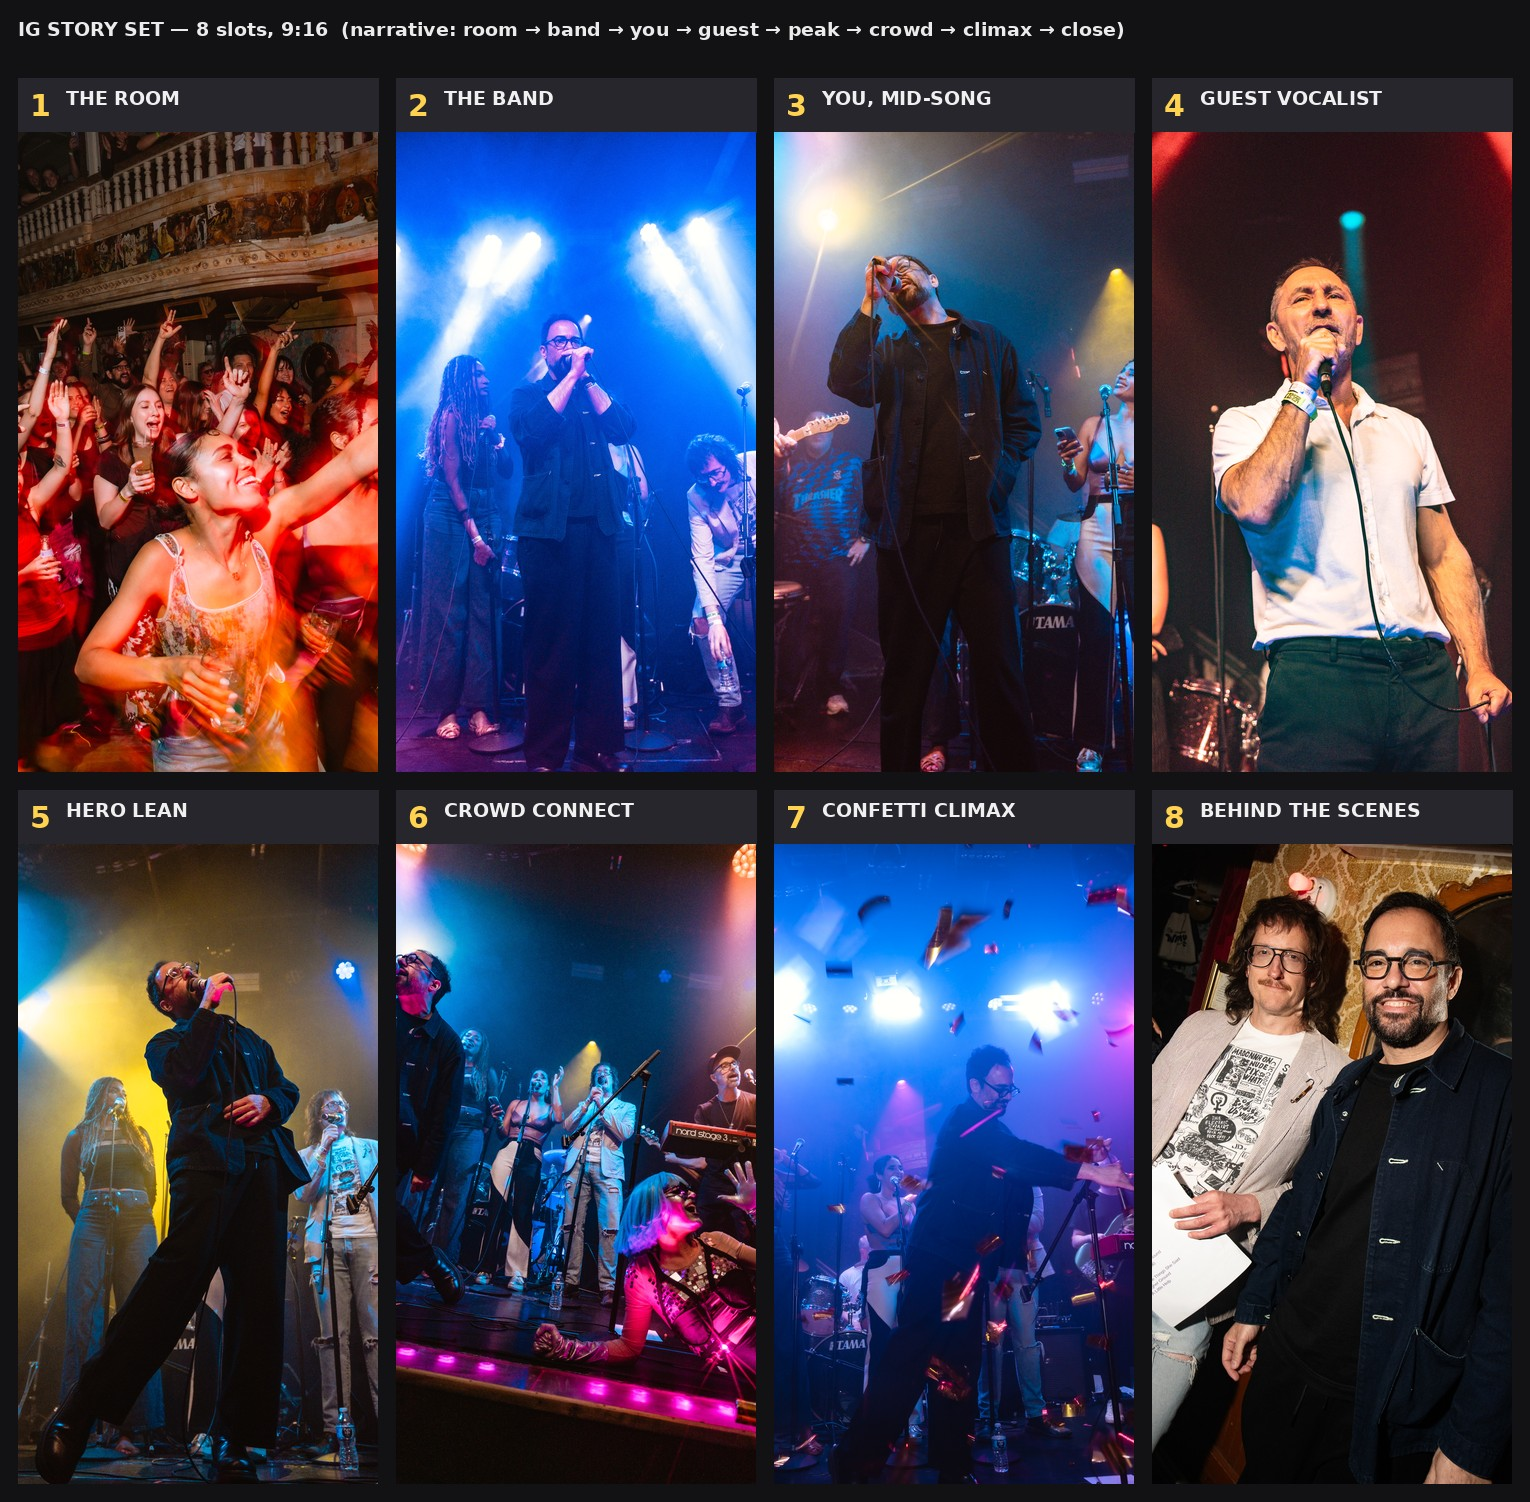
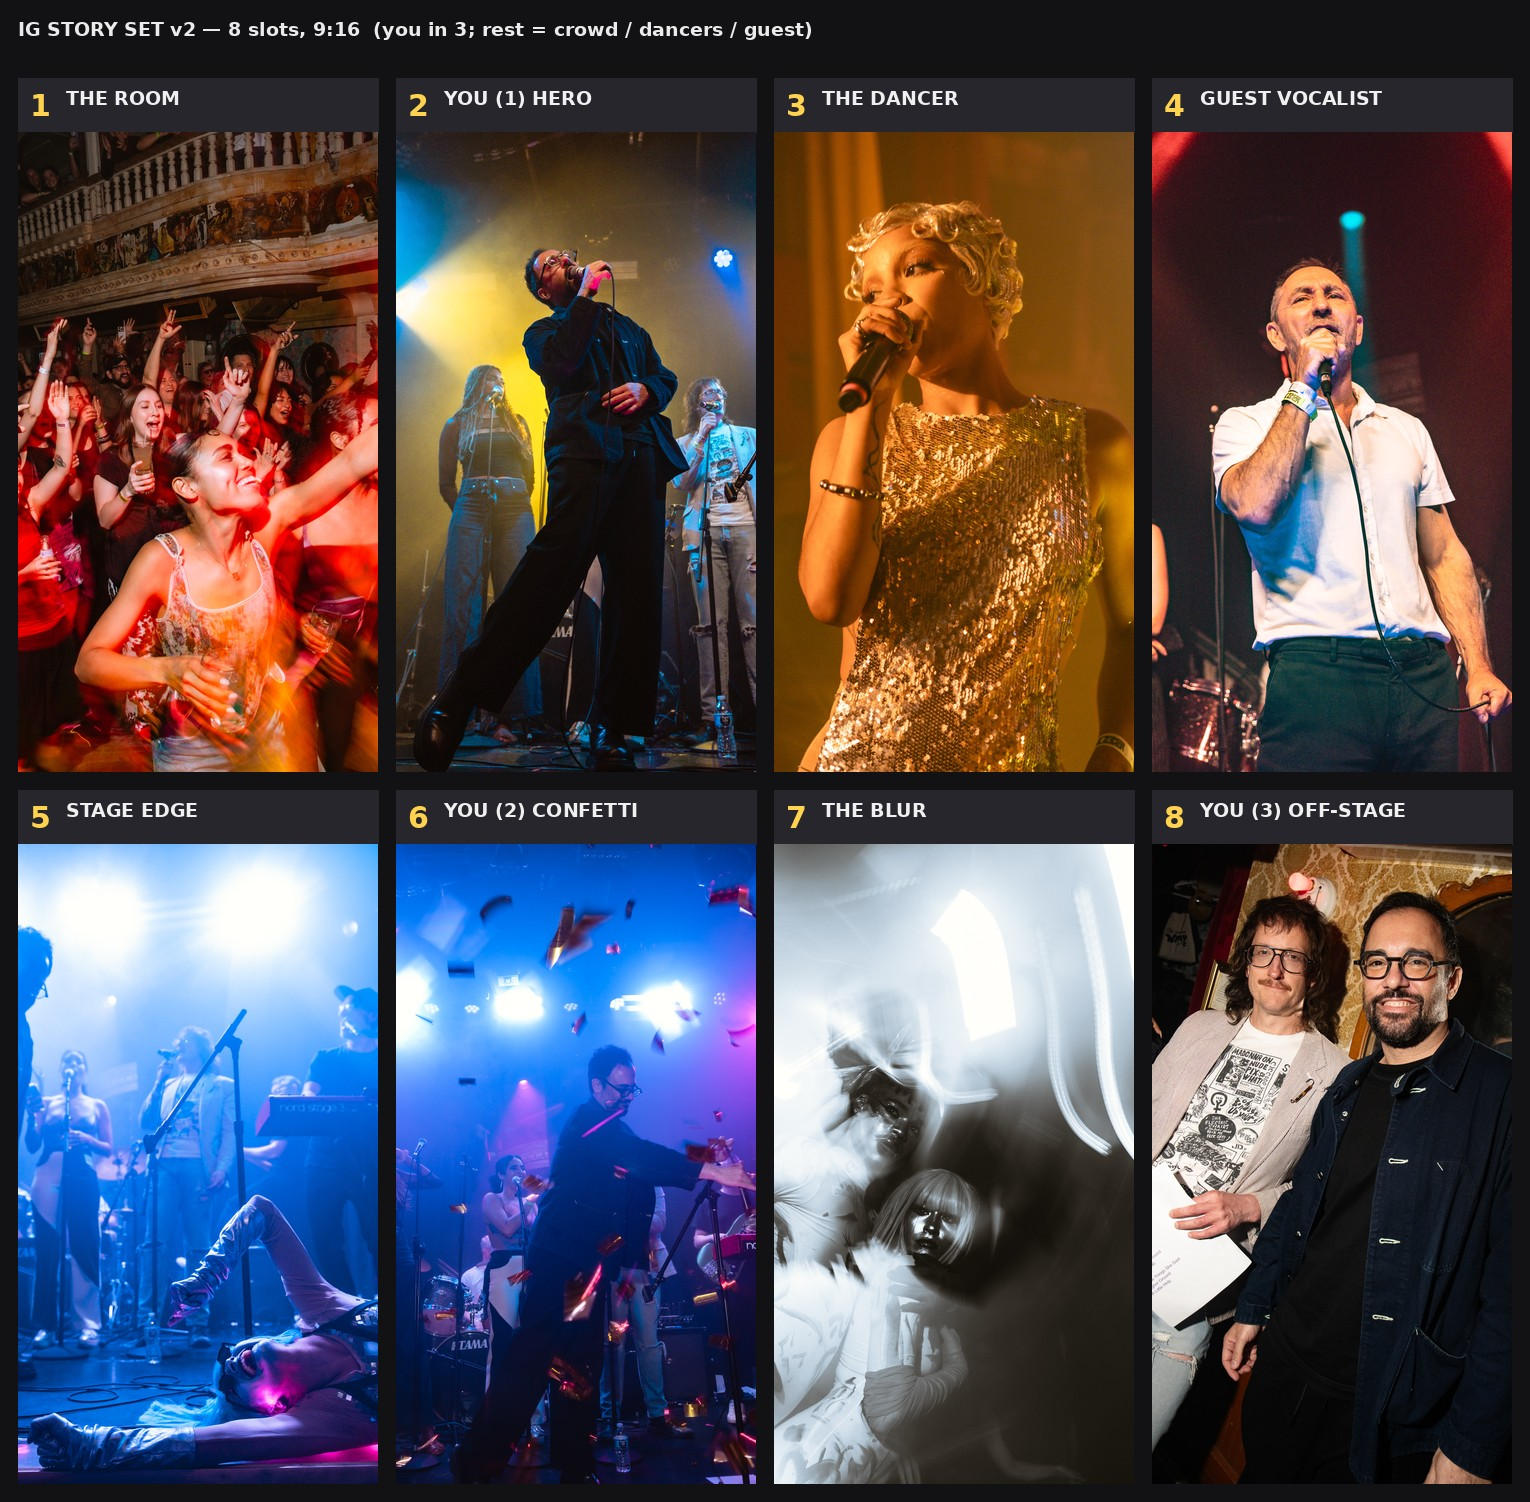
Revise IG story set: feature subject in 3 of 8, lead with crowd/dancers
https://claude.ai/code/session_01RBCZir1fdKmxRjw93DB8DA

diff --git a/storyboard.py b/storyboard.py
@@ -5,14 +5,14 @@ BASE = "/root/.claude/uploads/f650b114-7abe-53e3-98ba-153e056e5d84/"
 # (file, slot#, label, h_anchor 0..1, v_anchor 0..1)
 # anchors: where the crop window is biased. 0.5 = center.
 SHOTS = [
-    ("f640f635-suarfotos439.jpeg",          1, "THE ROOM",        0.50, 0.15),  # keep balcony up top
-    ("b363ef58-suarfotos511.jpeg",          2, "THE BAND",        0.50, 0.45),
-    ("fa816dbd-suarfotos520.jpeg",          3, "YOU, MID-SONG",   0.50, 0.30),  # keep raised hand
+    ("f640f635-suarfotos439.jpeg",          1, "THE ROOM",        0.50, 0.15),  # crowd; keep balcony
+    ("95048462-suarfotos526.jpeg",          2, "YOU (1) HERO",    0.50, 0.45),  # USER
+    ("0bd1a363-suarfotos395.jpeg",          3, "THE DANCER",      0.50, 0.35),
     ("3b2c58b3-suarfotos546_1.jpeg",        4, "GUEST VOCALIST",  0.55, 0.45),
-    ("95048462-suarfotos526.jpeg",          5, "HERO LEAN",       0.50, 0.45),
-    ("3b07bb89-suarfotos524.jpeg",          6, "CROWD CONNECT",   0.42, 0.55),  # keep you + fan/strip
-    ("73354ab7-suarfotos533.jpeg",          7, "CONFETTI CLIMAX", 0.46, 0.45),
-    ("544b11d4-Droga5_Reunion_6.9.26_pictureplastic__Mark_Minton136.jpeg", 8, "BEHIND THE SCENES", 0.55, 0.40),
+    ("770b324a-suarfotos523.jpeg",          5, "STAGE EDGE",      0.55, 0.50),  # dancer on the lip
+    ("73354ab7-suarfotos533.jpeg",          6, "YOU (2) CONFETTI",0.46, 0.45),  # USER
+    ("1e0af547-suarfotos605.jpeg",          7, "THE BLUR",        0.42, 0.45),  # abstract transition
+    ("544b11d4-Droga5_Reunion_6.9.26_pictureplastic__Mark_Minton136.jpeg", 8, "YOU (3) OFF-STAGE", 0.55, 0.40),  # USER
 ]
 
 TW, TH = 360, 640          # thumb 9:16
@@ -44,7 +44,7 @@ fbig  = ImageFont.truetype("/usr/share/fonts/truetype/dejavu/DejaVuSans-Bold.ttf
 fnum  = ImageFont.truetype("/usr/share/fonts/truetype/dejavu/DejaVuSans-Bold.ttf", 30)
 flbl  = ImageFont.truetype("/usr/share/fonts/truetype/dejavu/DejaVuSans-Bold.ttf", 19)
 
-d.text((PAD, 18), "IG STORY SET — 8 slots, 9:16  (narrative: room → band → you → guest → peak → crowd → climax → close)",
+d.text((PAD, 18), "IG STORY SET v2 — 8 slots, 9:16  (you in 3; rest = crowd / dancers / guest)",
        font=flbl, fill=(235,235,235))
 
 for i, (fn, num, lbl, hx, vy) in enumerate(SHOTS):
